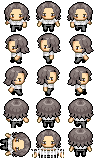
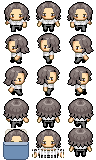
Proper in-bed sleeping art aligned to the Ville's beds
Replace the horizontal "lie" frame (which lay sideways across the Ville's
headboard-up beds) with a top-down in-bed pose: the character's head resting
on a pillow with a blanket over the body, drawn vertically.

Why vertical: enumerating the static map shows 23 beds whose walkable "bed"
tiles are the pillow row (17 are 2x1 double-pillow rows, 6 are 1x1), with the
bed body drawn extending downward. So every bed is effectively headboard-up,
and a head-up in-bed pose aligns with all of them without any rotation -- which
also sidesteps the unreliable cluster-shape "orient" (a 2-wide pillow row reads
as horizontal even though the bed is vertical).

- Regenerated the "lie" slot (x0,y128) in all 25 character sheets as the in-bed
  pose, derived from each character's own head so they stay recognizable.
- Frontend now uses the in-bed "lie" frame only when the agent is actually on a
  bed (no blanket pose on a toilet/floor); non-bed sleepers stay upright.
- Bumped ASSET_VER so the updated sheets are refetched.

Atlas unchanged (lie stays at x0,y128); sheets stay 96x160.

Claude-Session: https://claude.ai/code/session_01UY5khw28168D7GmVf1bC7e

Changed region(s): [[0.0, 0.7812, 0.3438, 1.0]]

diff --git a/environment/frontend_server/templates/home/main_script.html b/environment/frontend_server/templates/home/main_script.html
@@ -341,7 +341,7 @@
 	  // fetches these itself, so a plain page refresh can keep stale copies that
 	  // lack newer frames like "lie"/"sit"/"lean"). Bump it when the character
 	  // art or atlas.json changes.
-	  var ASSET_VER = "20260625";
+	  var ASSET_VER = "20260625b";
 	  var char_json = "{% static 'assets/characters/atlas.json' %}";
 	  var char_base = char_json.replace("atlas.json", "");
 	  for (var pkey in persona_names) {
@@ -1152,22 +1152,22 @@
 			      let char_tex = this.textures.get(curr_persona_name);
 			      curr_persona.setAngle(0);
 			      if (GROUND_SLEEP && idle_desc.indexOf("sleep") >= 0) {
-			        if (char_tex.has("lie")) {
+			        if (idle_obj.indexOf("bed") >= 0 && char_tex.has("lie")) {
+			          // In-bed pose: head on the pillow with a blanket over the body,
+			          // drawn vertically (head up). The Ville's beds are all drawn
+			          // headboard-up -- the walkable "bed" tiles are just the pillow
+			          // row (a double bed is two pillow tiles side by side) and the
+			          // bed body extends downward -- so a head-up pose aligns with
+			          // every bed with NO rotation. (setAngle(0) above guarantees it.)
 			          curr_persona.setTexture(curr_persona_name, "lie");
 			        } else if (idle_obj.indexOf("bed") >= 0) {
-			          // Tucked-in look: face the camera, upright, on the bed's
-			          // pillow row. NEVER rotate from the cluster's orient: the
-			          // walkable "bed" tiles are just the pillow row (a double bed
-			          // is 2 tiles side by side, reading as "horizontal"), while
-			          // every bed in the Ville is drawn headboard-up -- rotating
-			          // by cluster shape is what left sleepers lying sideways
-			          // across their beds.
+			          // No in-bed frame in this sheet: face the camera, upright, on
+			          // the bed's pillow row.
 			          curr_persona.setTexture(curr_persona_name, "down");
 			        }
 			        // Sleeping anywhere that isn't a bed (the sim sometimes parks
 			        // a sleeper at a toilet or shower): stay upright -- the zzz
-			        // chip carries the meaning; lying sideways on a toilet does
-			        // not.
+			        // chip carries the meaning; a blanket on a toilet does not.
 			      } else if (idle_obj &&
 			                 SEAT_OBJECTS.some(function (o) { return idle_obj.indexOf(o) >= 0; })) {
 			        curr_persona.setTexture(curr_persona_name,
